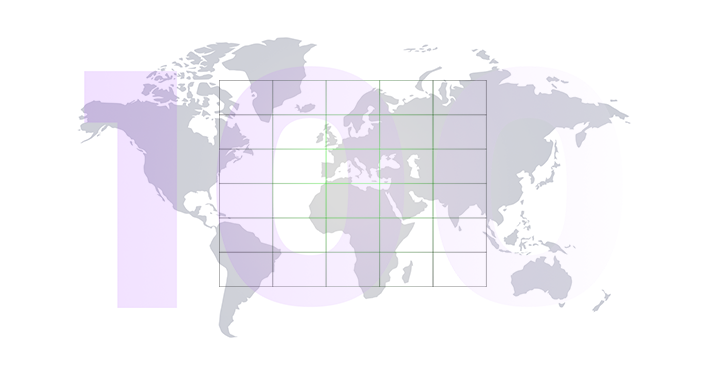
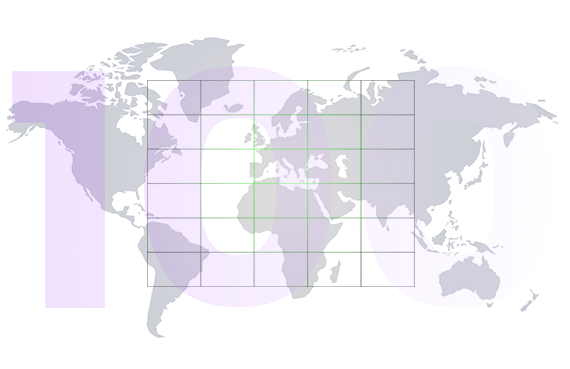
update width

diff --git a/src/components/pages/Home/SectionMatchingBonus.tsx b/src/components/pages/Home/SectionMatchingBonus.tsx
@@ -10,14 +10,17 @@ export const SectionMatchingBonus = () => {
       align="center"
       justify="center"
       flexDir={{ base: "column", md: "row" }}
-      minH={"xl"}
+      minH={{base: "56", md:"md"}}
     >
       <Box position={"absolute"} zIndex={"hide"} w={"full"}>
         <Image
           src="/images/BgMatchingBonus.png"
           alt="matching-image"
+          mx={"auto"}
           objectFit="cover"
           w={"full"}
+          minH={"60"}
+          maxW={"7xl"}
         />
       </Box>
       <Stack
@@ -30,13 +33,15 @@ export const SectionMatchingBonus = () => {
         align={"center"}
         textAlign={"center"}
       >
-        <Heading>
-          {t("pages.home.matchingBonus.title")}
+        <Heading
+          fontSize={{ base: "4xl", lg: "5xl" }}
+          textTransform="capitalize"
+        >
+          <Trans i18nKey={"pages.home.matchingBonus.title"} />
         </Heading>
-        <Heading textTransform="capitalize">
-          {t("pages.home.matchingBonus.subtitle")}
-        </Heading>
-        <Text fontSize="lg">{t("pages.home.matchingBonus.description")}</Text>
+        <Text fontSize={{ base: "md", lg: "lg" }}>
+          {t("pages.home.matchingBonus.description")}
+        </Text>
       </Stack>
     </Flex>
   );
